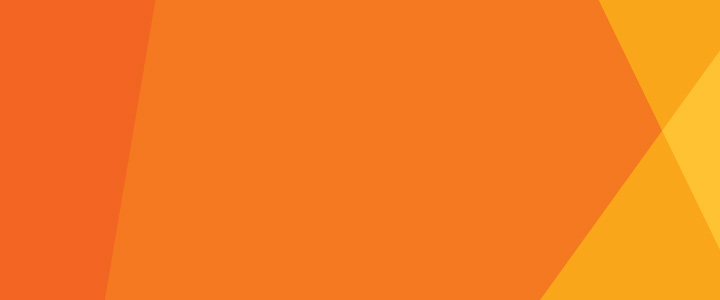
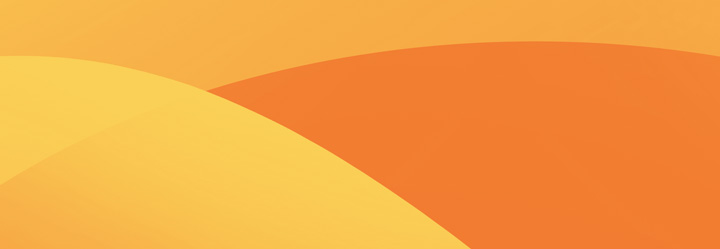
new style

diff --git a/public/css/default.css b/public/css/default.css
@@ -39,10 +39,10 @@ input[type=submit]:hover {color:#f0397b; border-color:#C6C6C6; cursor:pointer;}
 /*SPRITE*/
 
 /*BUILD*/
-.introProducts {background-color:#fbb835;}
+.introProducts {background:transparent url(../images/slide1.jpg) scroll no-repeat 0 0;}
 .introProducts h1 {font-size:40px; text-shadow: 1px 1px 1px #d89614;}
 
-.intro {padding:30px 30px 40px; color:#FFF; margin:0 0 30px;}
+.intro {padding:60px 30px 40px; color:#FFF; margin:0 0 30px;}
 .intro p {font-size:15px;}
 .outro {padding:30px 0px;}
 
@@ -82,13 +82,10 @@ input[type=submit]:hover {color:#f0397b; border-color:#C6C6C6; cursor:pointer;}
 .success {background-color:green;}
 .error {background-color:red;}
 
-.slides_container {
-    width:720px;
-    height:300px;
-  }
-  .slides_container div {
-    width:720px;
-    height:300px;
-    display:block;
-  }
+.slides_container { width:720px; height:250px;}
+.slides_container div {width:720px; height:250px; display:block;}
 
+.pagination {width:45px; margin:10px auto 0;}
+.pagination li {float:left; margin:0 1px;}
+.pagination li a {background-image: url("../images/pagination.png"); background-position: 0 0; display: block; float:left; height:0; overflow:hidden; padding-top:12px; width:12px;}
+.pagination li.current a {background-position:0 -12px;}

diff --git a/home/index.php b/home/index.php
@@ -1,13 +1,13 @@
 <div class="banner" id="slides">
   <div class="slides_container">
     <div>
-      <img alt="SALTSPRING" width="720" height="300" src="../public/images/slide1.jpg" />
+      <img alt="SALTSPRING" width="720" height="250" src="../public/images/slide1.jpg" />
     </div>
     <div>
-      <img alt="SALTSPRING" width="720" height="300" src="../public/images/slide2.jpg" />
+      <img alt="SALTSPRING" width="720" height="250" src="../public/images/slide2.jpg" />
     </div>
     <div>
-      <img alt="SALTSPRING" width="720" height="300" src="../public/images/slide1.jpg" />
+      <img alt="SALTSPRING" width="720" height="250" src="../public/images/slide1.jpg" />
     </div>
   </div>
 </div>
